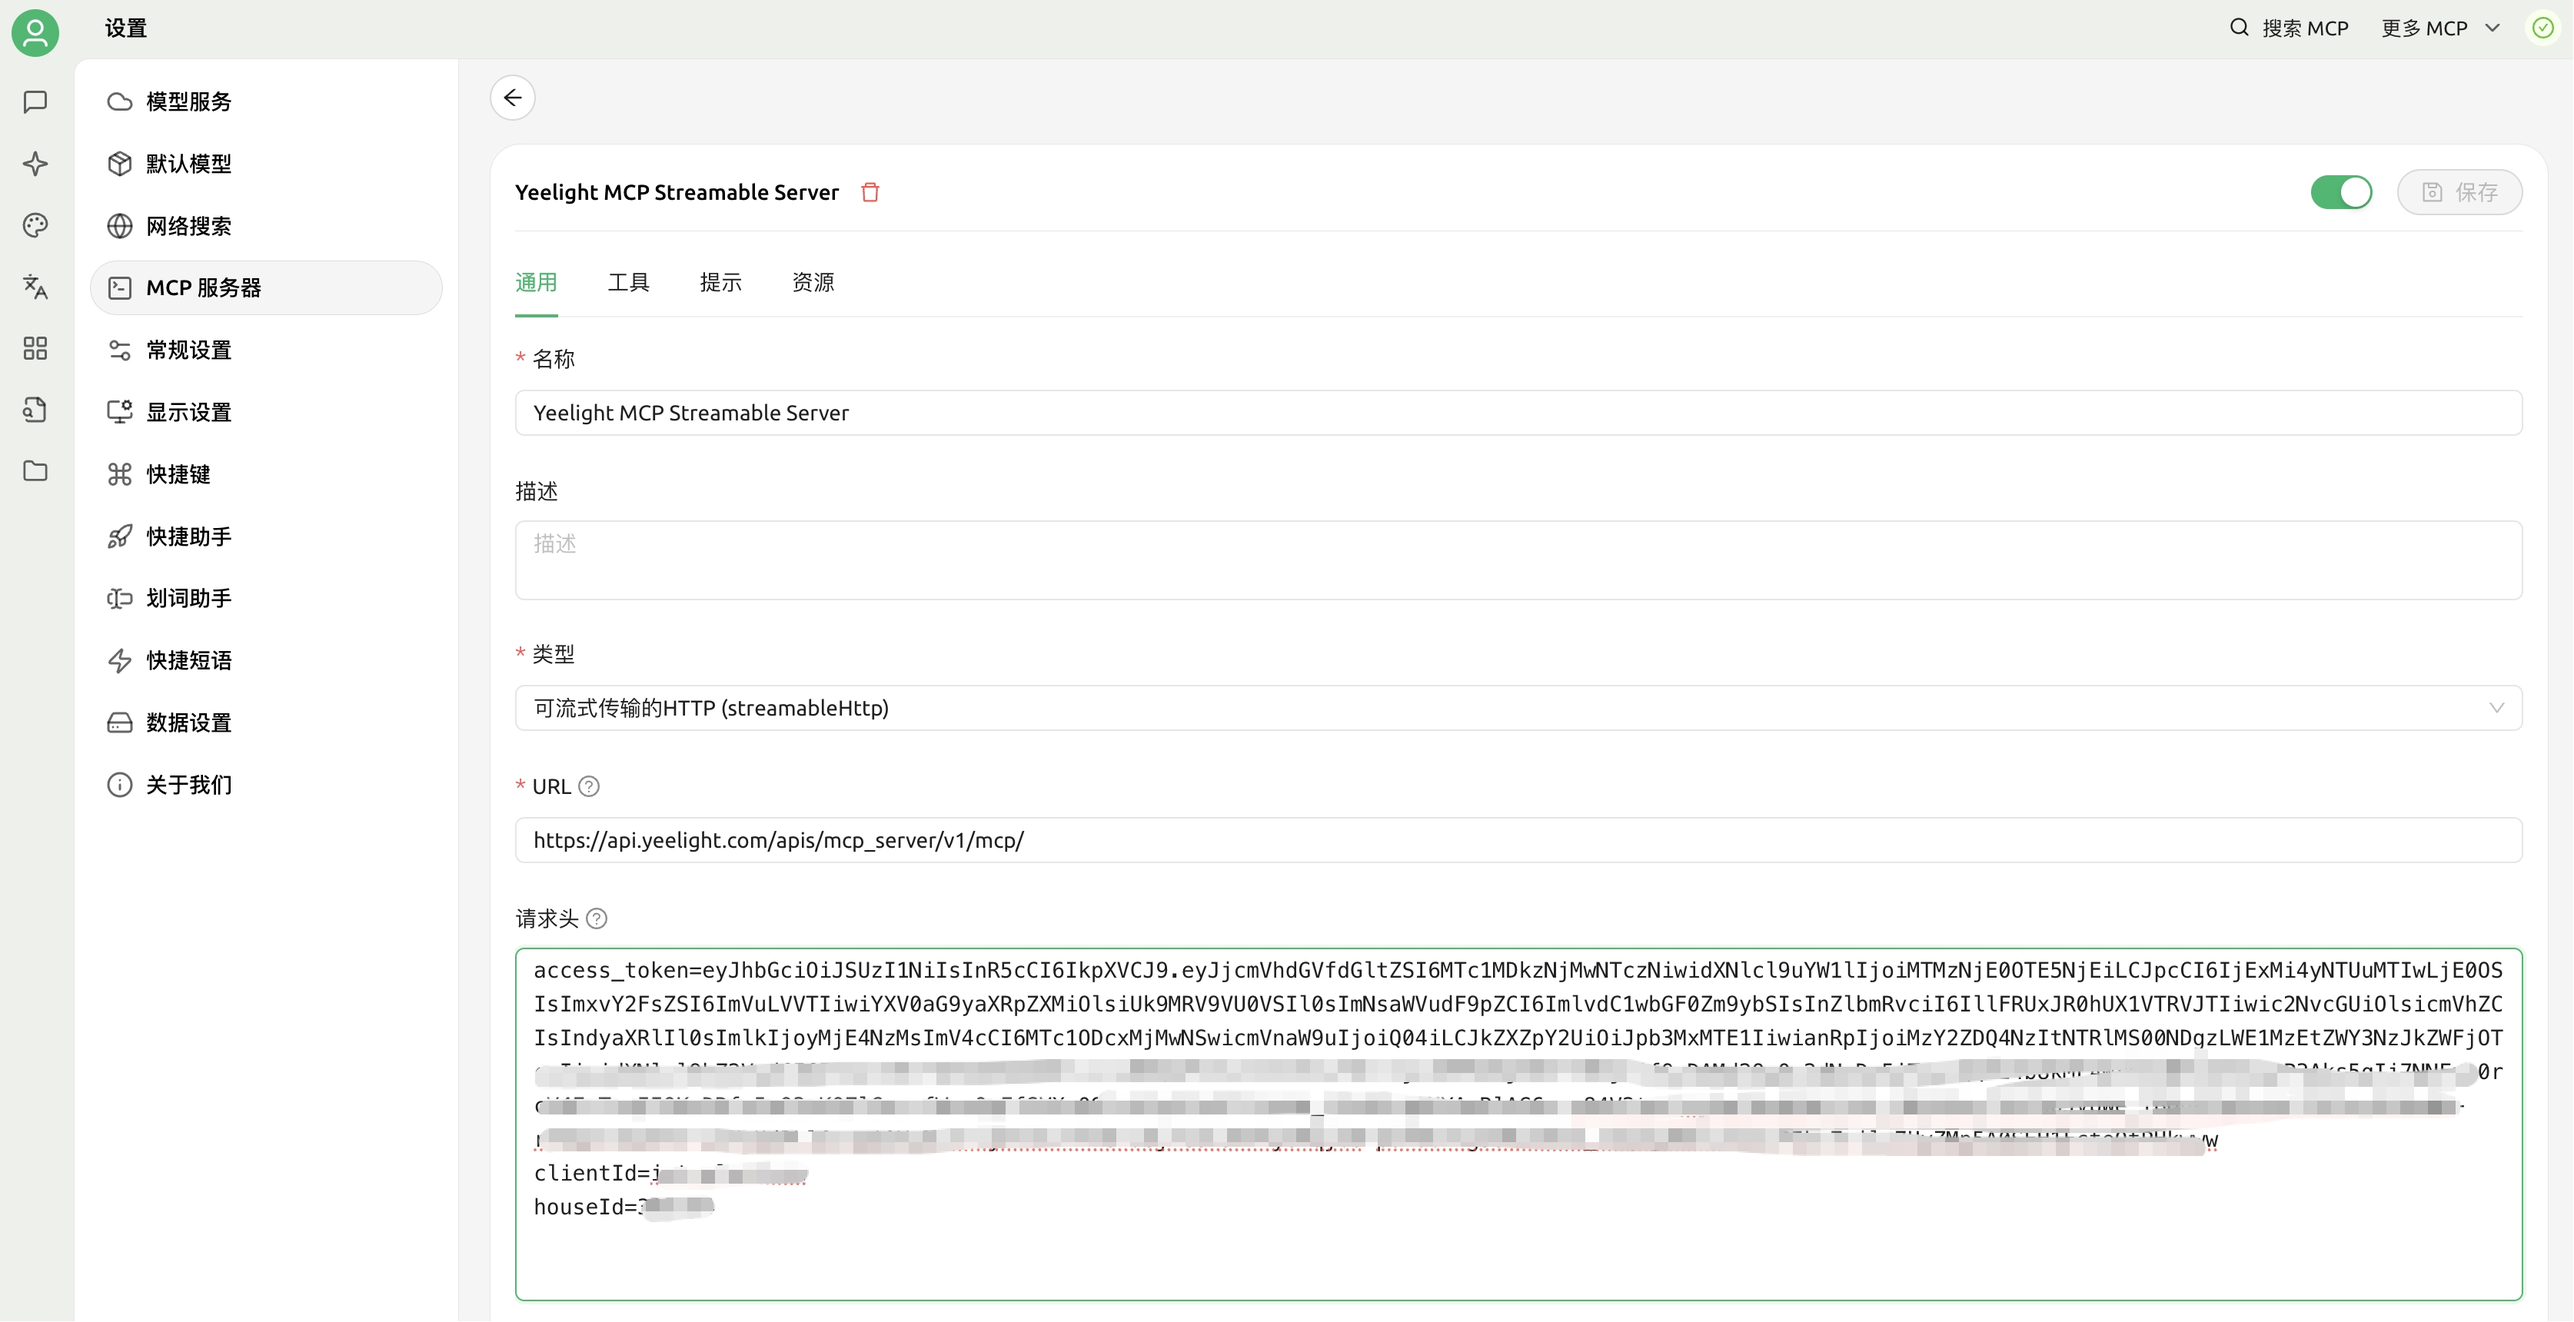
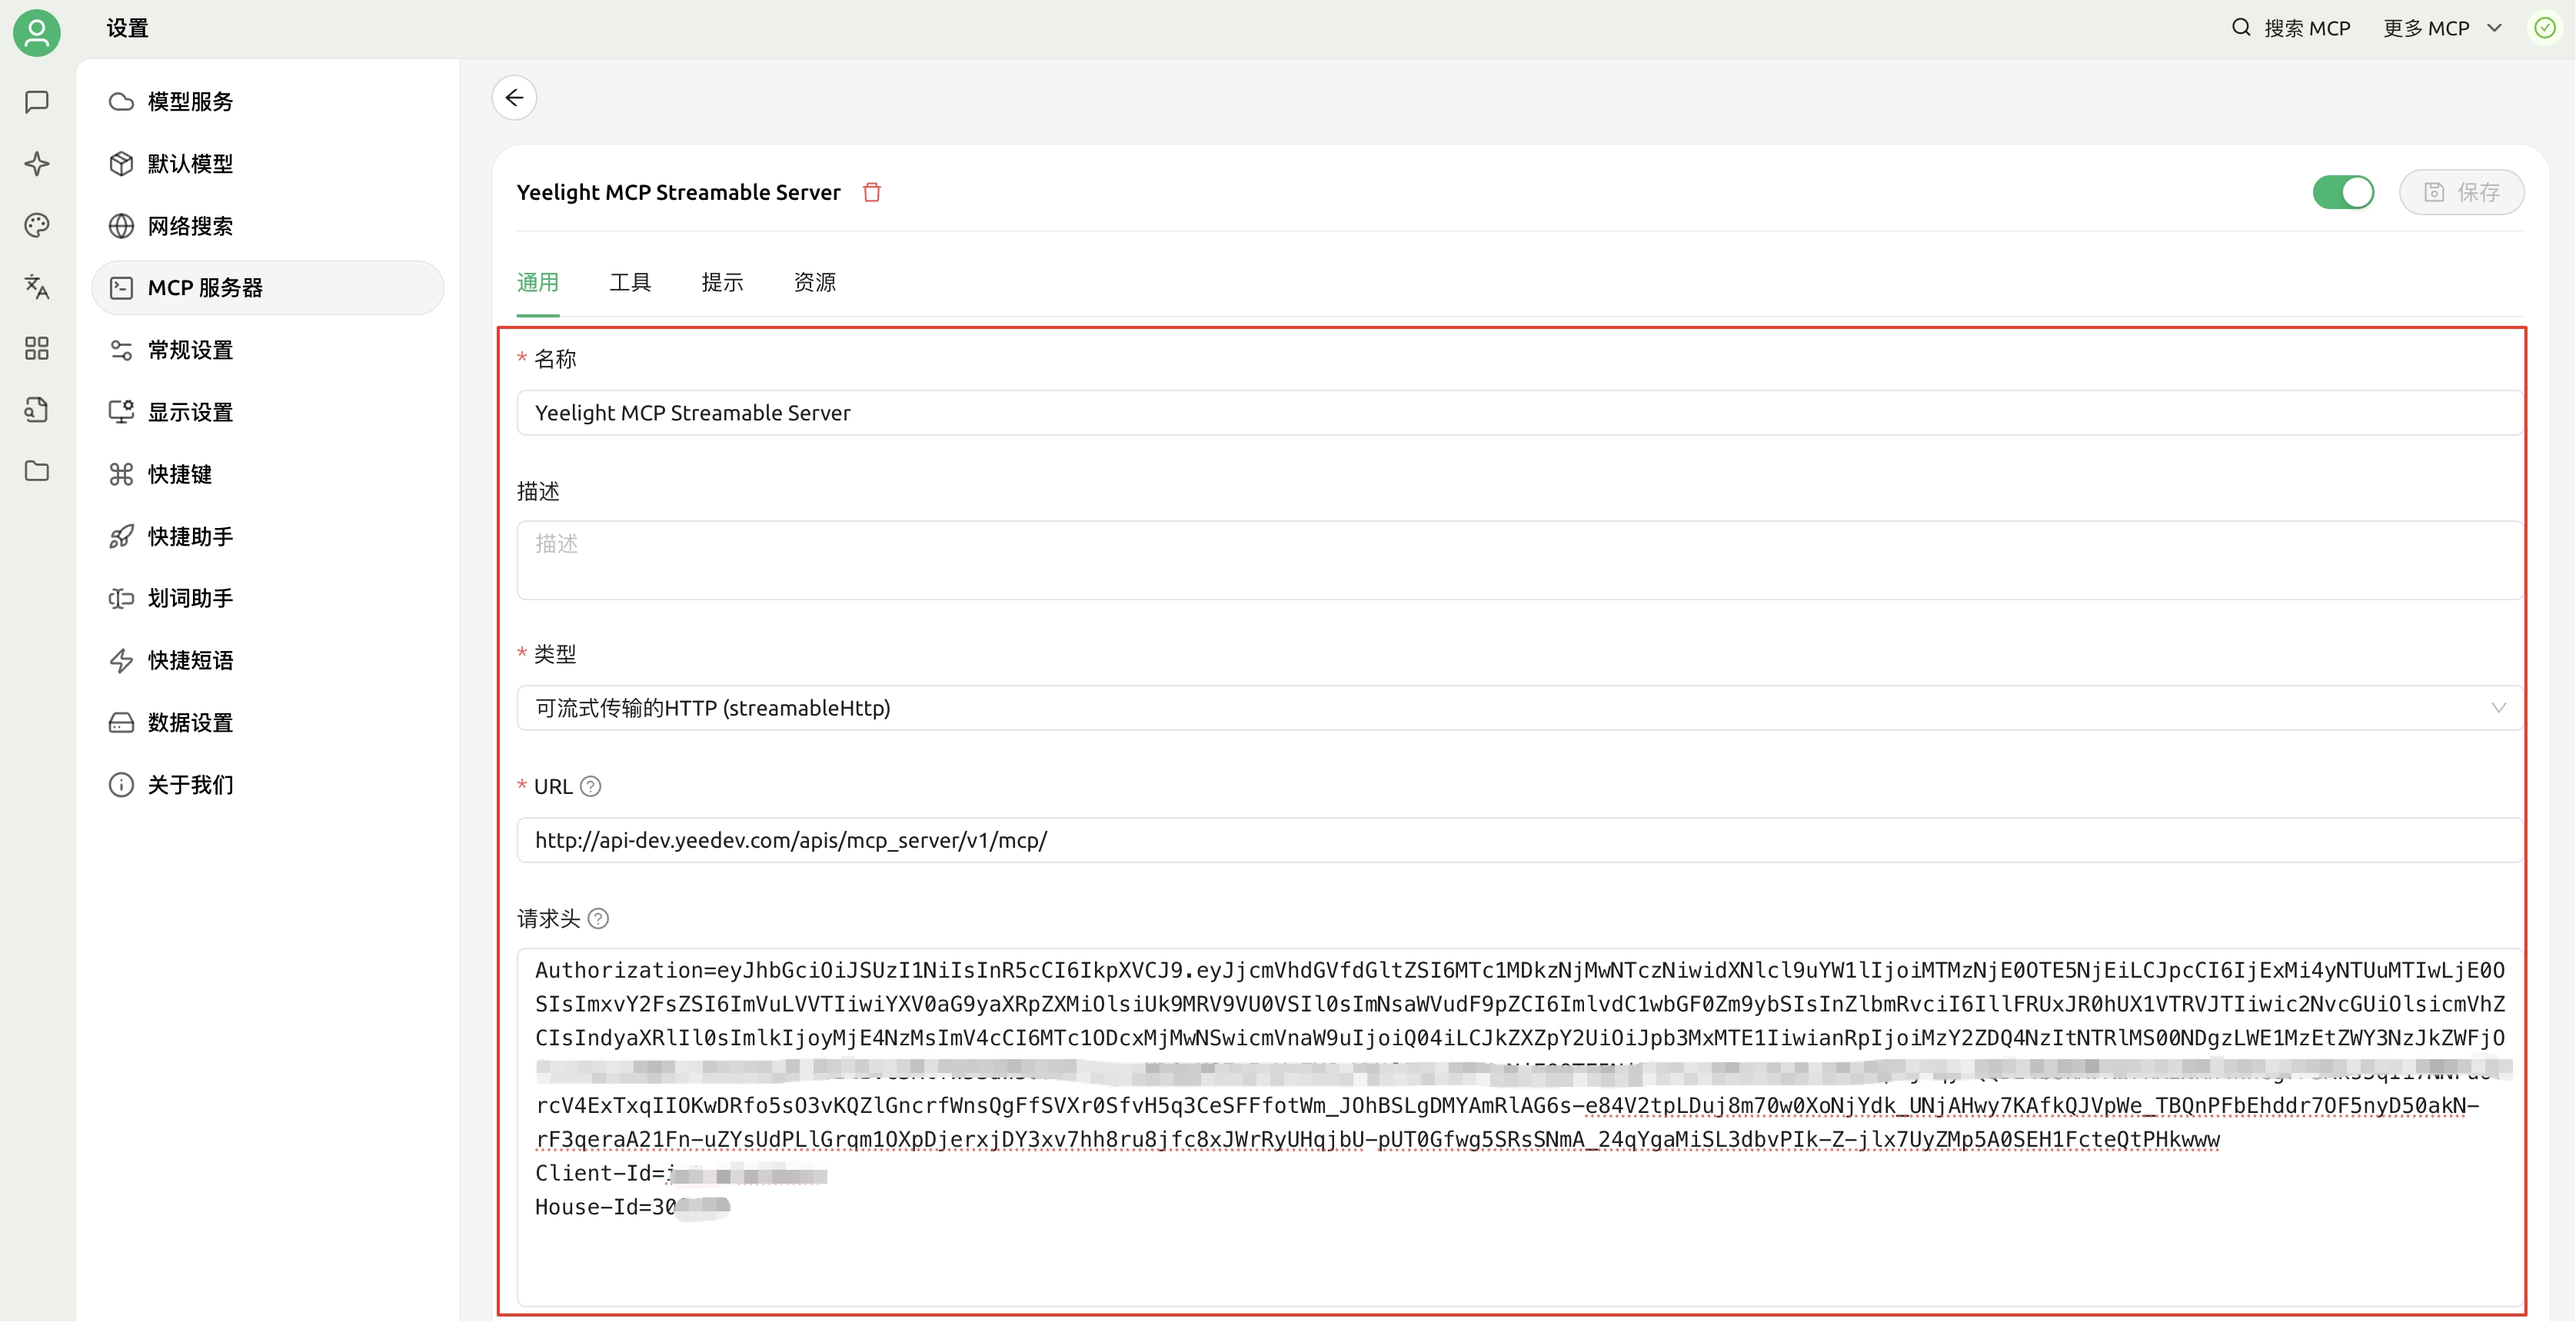
文档调整&代码调整
细化文档、调整接口header参数

diff --git a/src/service/mcp_service.py b/src/service/mcp_service.py
@@ -63,8 +63,8 @@ def get_auth_info(context: Context) -> tuple[str, str, str]:
     if request is None or not hasattr(request, "headers"):
         raise ValueError("request or request.headers is None, 无法获取认证信息")
     authorization = request.headers.get(settings.AUTHORIZATION_HEADER_KEY)
-    client_id = request.headers.get("clientId")
-    house_id = request.headers.get("houseId")
+    client_id = request.headers.get(settings.CLIENT_ID_HEADER_KEY)
+    house_id = request.headers.get(settings.HOUSE_ID_HEADER_KEY)
     return f"Bearer {authorization}", client_id, house_id
 
 

diff --git a/src/config/config.py b/src/config/config.py
@@ -4,8 +4,10 @@ class Config:
     HTTP_TIMEOUT = 15
     MCP_PATH = "/mcp"
     STATELESS_HTTP=True
-    # AUTHORIZATION_HEADER_KEY="Authorization"
-    AUTHORIZATION_HEADER_KEY="access_token"
+    AUTHORIZATION_HEADER_KEY="Authorization"
+    # AUTHORIZATION_HEADER_KEY="access_token"
+    HOUSE_ID_HEADER_KEY="House-Id"
+    CLIENT_ID_HEADER_KEY="Client-Id"
     FETCH_NODES_MAX_SIZE=300
 
 settings = Config()

diff --git a/README.md b/README.md
@@ -47,7 +47,7 @@ Yeelight MCP Server 支持两种接入方式：**官方远程MCP Server接入** 
 
 
 #### 📌 前置准备
-在开始接入之前，您需要准备好的访问令牌（AccessToken）、clientId、houseId信息。
+在开始接入之前，您需要准备好的`Authorization（访问令牌）`、`Client-Id` 和 `House-Id`信息。
 
 - 访问令牌（AccessToken）获取
 
@@ -112,7 +112,7 @@ uv pip install ./
 
 ### 🧩 客户端配置
 
-Yeelight MCP Server 采用 Streamable HTTP 协议 进行接入，目前主流 AI 客户端均已支持基于该协议的 MCP 接口调用。接入时，您只需将 AccessToken、clientId 和 houseId 作为请求 Header 传入即可。
+Yeelight MCP Server 采用 Streamable HTTP 协议 进行接入，目前主流 AI 客户端均已支持基于该协议的 MCP 接口调用。接入时，您只需将 `Authorization`、`Client-Id` 和 `House-Id` 作为请求 Header 传入即可。
 
 以下为部分客户端的配置示例，供参考：
 
@@ -130,9 +130,9 @@ Cursor MCP配置文件示例：
     "yeelight-remote-iot-mcp-server": {
       "url": "https://api.yeelight.com/apis/mcp_server/v1/mcp/", 
       "headers": {
-        "access_token": "${ACCESS_TOKEN}",
-        "clientId": "${CLIENT_ID}",
-        "houseId": "${HOUSEI_Id}"
+        "Authorization": "${Authorization}",
+        "Client-Id": "${Client_Id}",
+        "House-Id": "${HOUSEI_Id}"
       }
     }
   }
@@ -150,16 +150,16 @@ Claude Desktop MCP配置文件示例：
       "mcp-remote",
       "https://api.yeelight.com/apis/mcp_server/v1/mcp/",
       "--header",
-      "access_token:${ACCESS_TOKEN}",
+      "Authorization:${Authorization}",
       "--header",
-      "clientId:${CLIENT_ID}",
+      "Client-Id:${CLIENT_ID}",
       "--header",
-      "houseId:${HOUSE_ID}",
+      "House-Id:${HOUSE_ID}",
       "--allow-http",
       "true"
     ],
     "env": {
-      "ACCESS_TOKEN": "${ACCESS_TOKEN}",
+      "AUTHORIZATION": "${ACCESS_TOKEN}",
       "CLIENT_ID": "${CLIENT_ID}",
       "HOUSE_ID": "${HOUSEI_Id}"
     }
@@ -168,7 +168,7 @@ Claude Desktop MCP配置文件示例：
 ```
 
 #### Cherry Studio接入
-打开Cherry Studio页面，依次点击 【设置】→【MCP服务器】→【添加服务器】，填写 AccessToken、clientId、houseId 信息，如下图所示：
+打开Cherry Studio页面，依次点击 【设置】→【MCP服务器】→【添加服务器】，填写 `Authorization`、`Client-Id` 和 `House-Id` 信息，如下图所示：
 <p align="center">
   <img src="readme/images/cherry_studio_config.jpeg" alt="Yeelight Pro APP 查看家庭ID" width="1000"/>
 </p>
